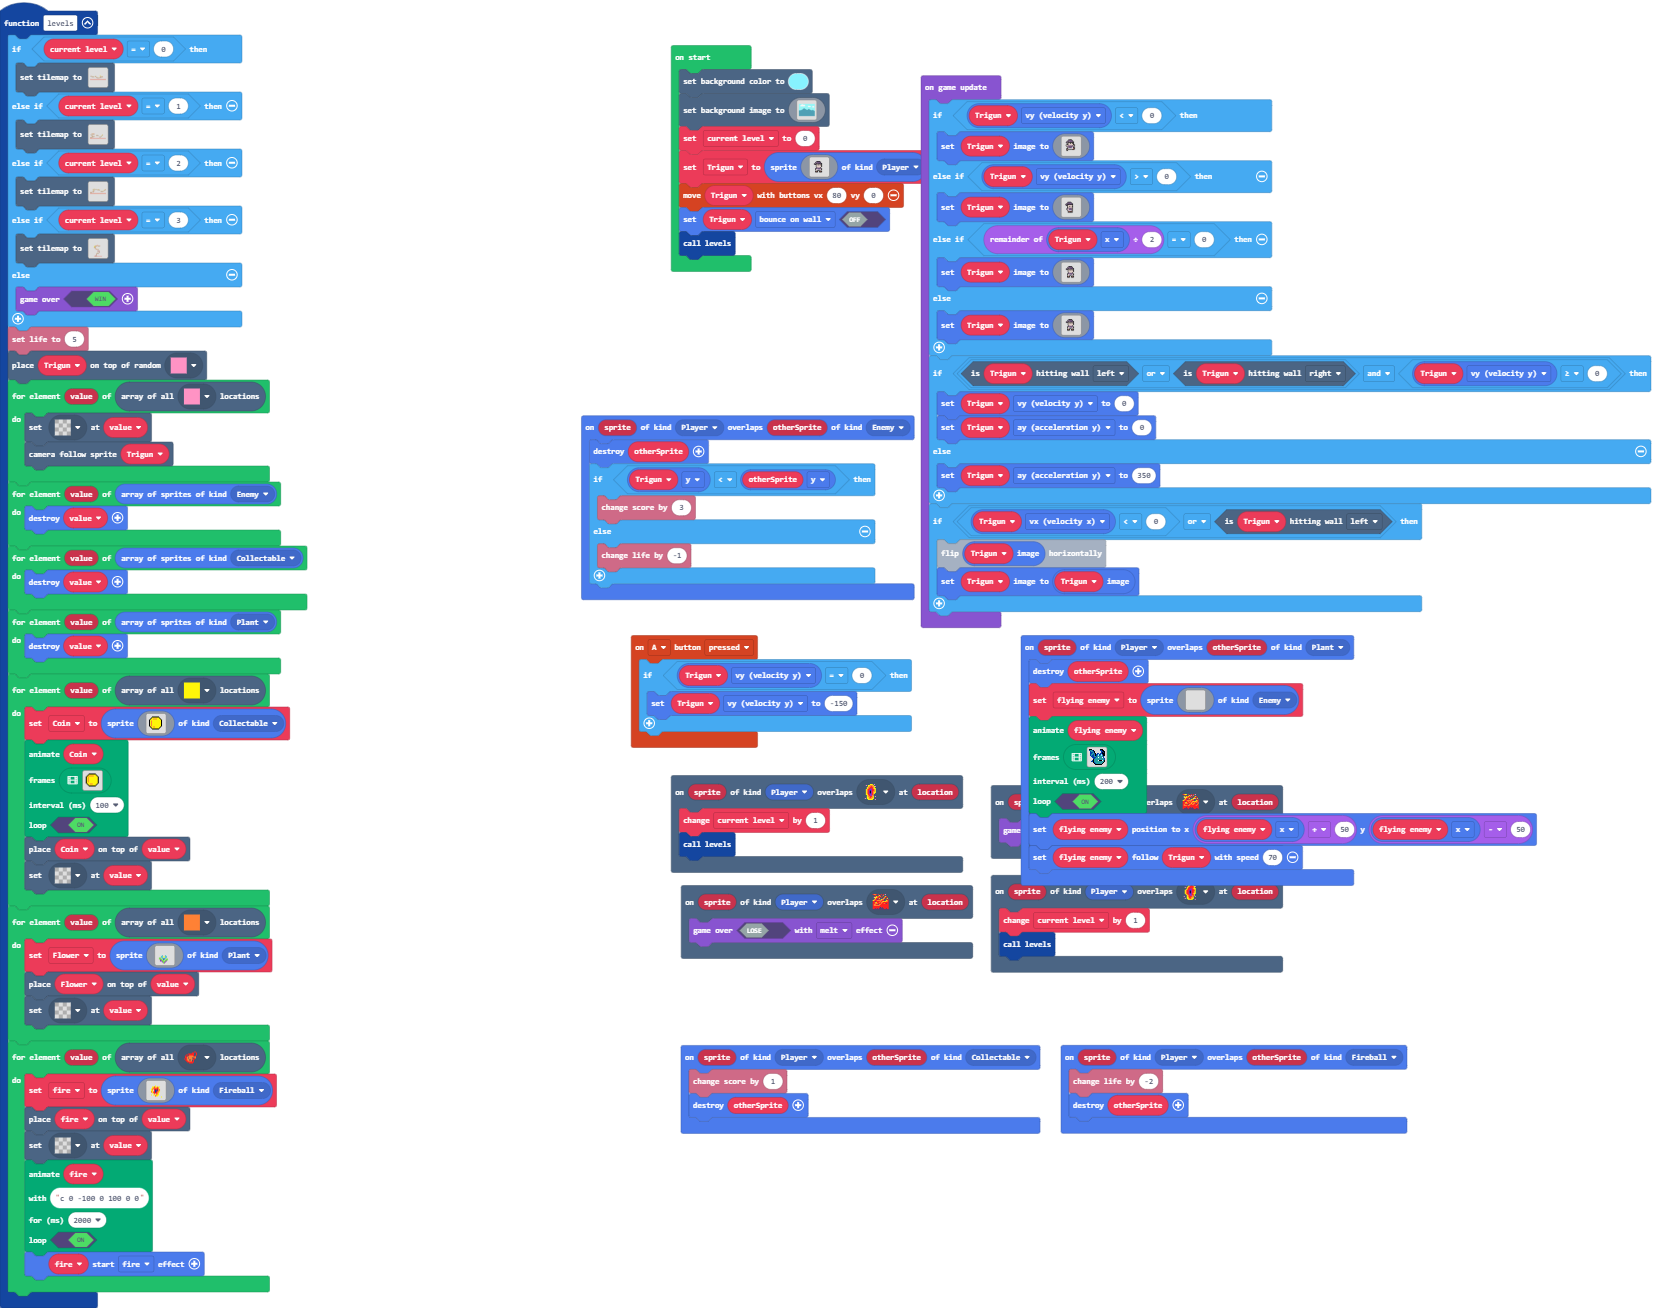
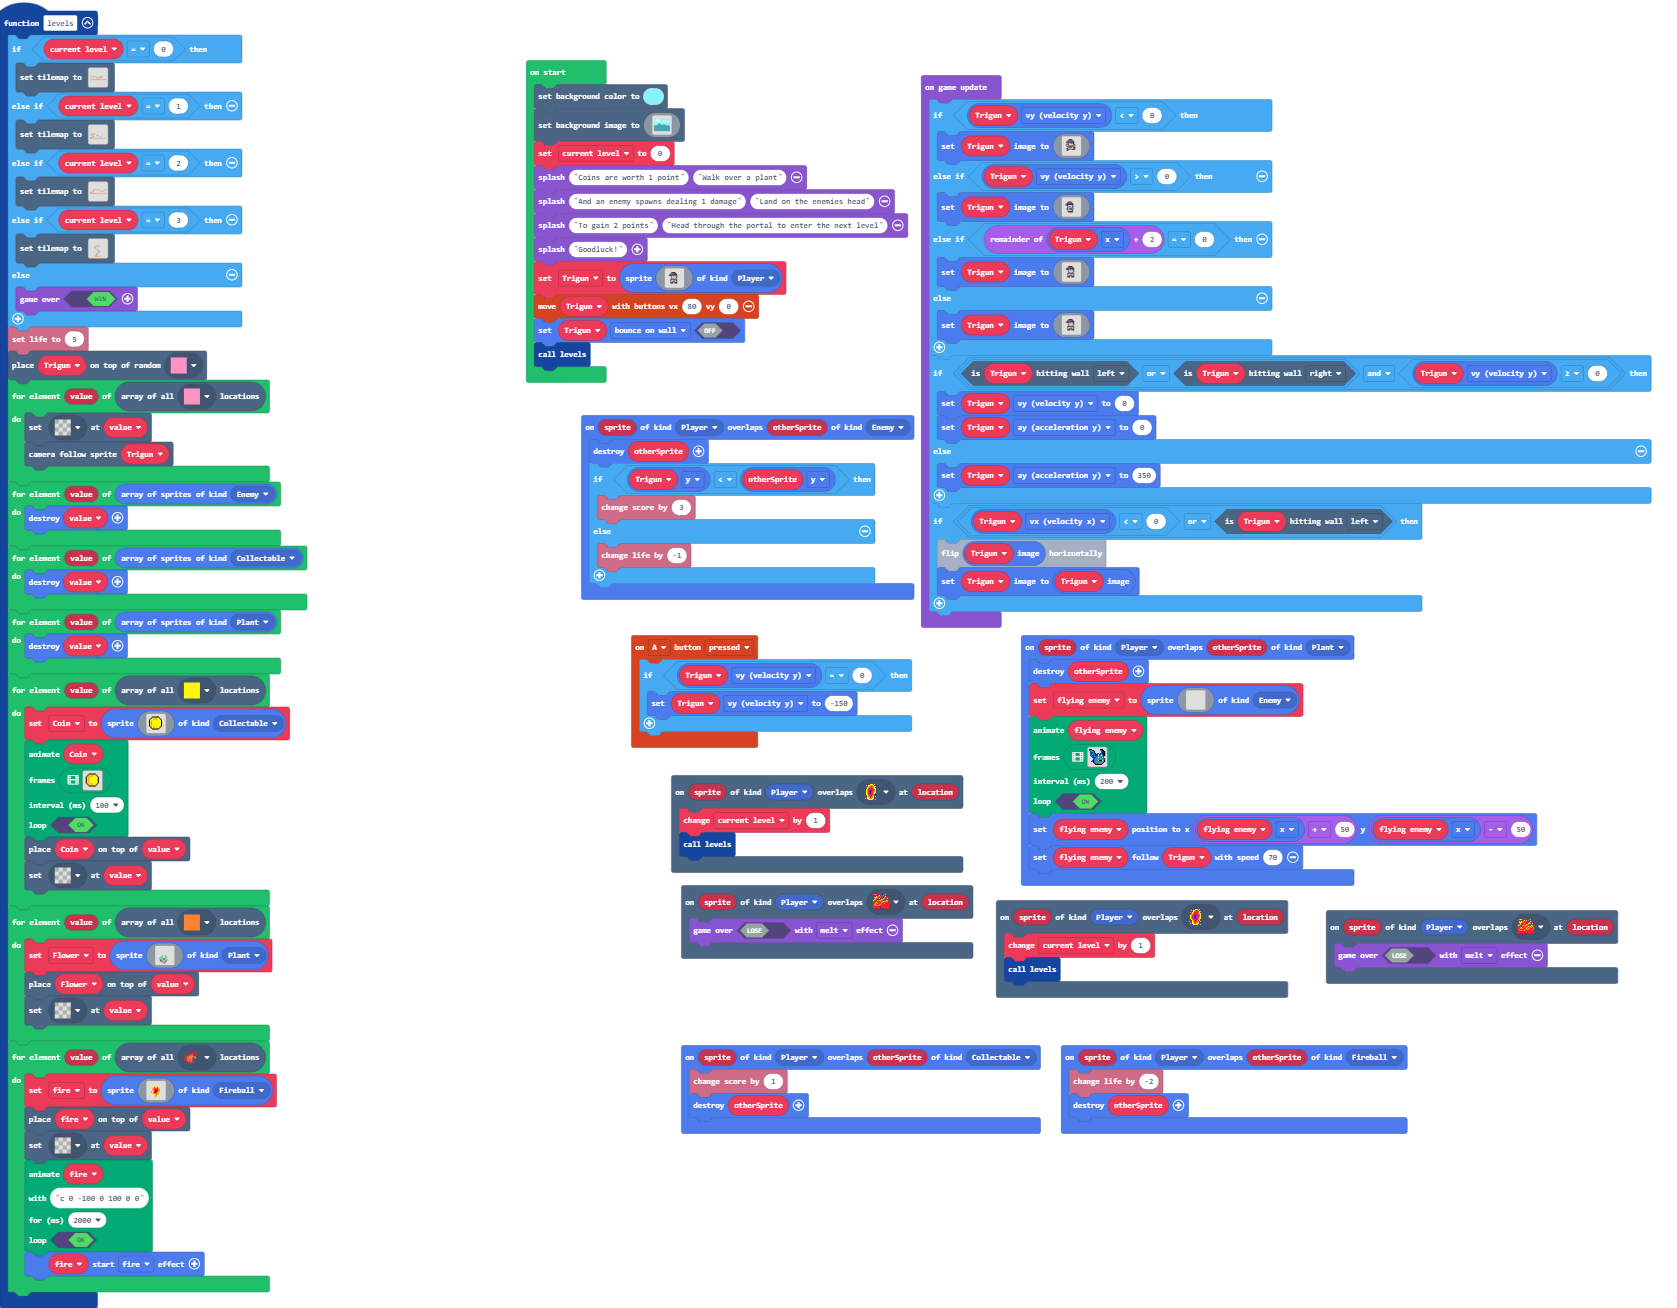
Update main.blocks, main.ts

diff --git a/main.ts b/main.ts
@@ -338,6 +338,10 @@ scene.setBackgroundImage(img`
     6666666666666666666666666666666666666666666666666666666666666666666666666666666666666666666666666666666666666666666666666666666666666666666666666666666666666666
     `)
 current_level = 0
+game.splash("Coins are worth 1 point", "Walk over a plant")
+game.splash("And an enemy spawns dealing 1 damage", "Land on the enemies head")
+game.splash("To gain 2 points", "Head through the portal to enter the next level")
+game.splash("Goodluck!")
 Trigun = sprites.create(assets.image`MC`, SpriteKind.Player)
 controller.moveSprite(Trigun, 80, 0)
 Trigun.setFlag(SpriteFlag.BounceOnWall, false)
